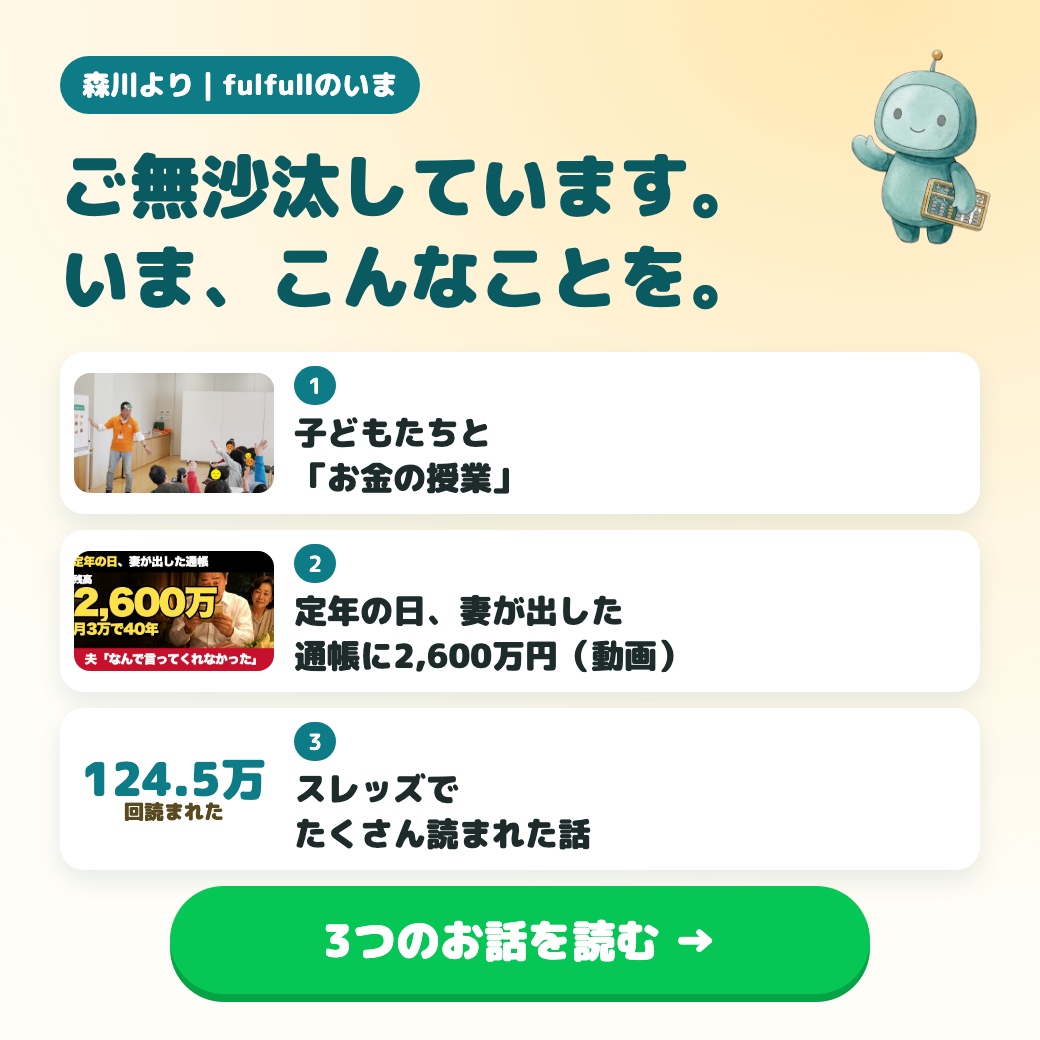
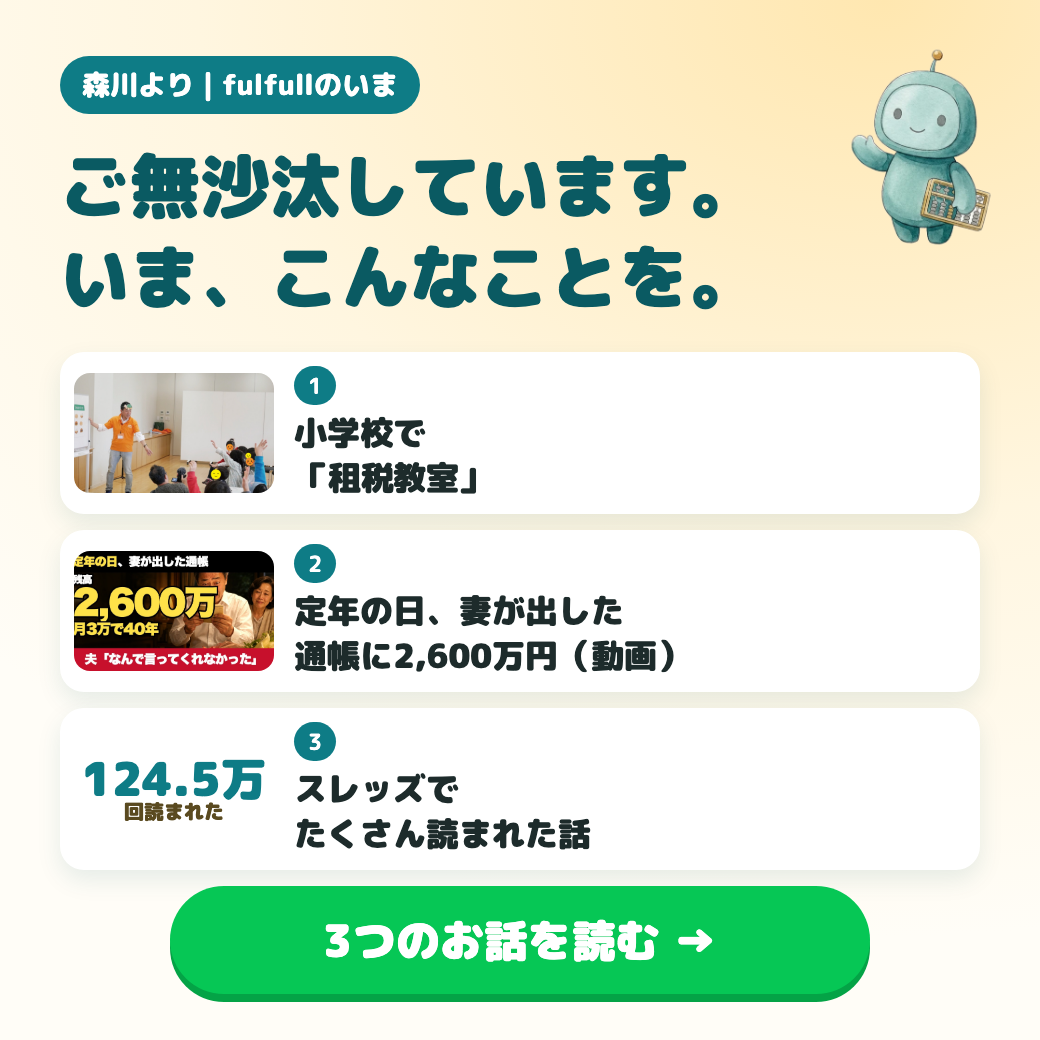
m1: 租税教室に差し替え

Changed region(s): [[0.2769, 0.4, 0.4923, 0.4923]]

diff --git a/w/m1/index.html b/w/m1/index.html
@@ -1,7 +1,7 @@
 <!doctype html>
 <html lang="ja"><head><meta charset="utf-8"><meta name="viewport" content="width=device-width,initial-scale=1">
 <meta name="robots" content="noindex,nofollow,noarchive"><meta name="color-scheme" content="light">
-<meta name="description" content="fulfullのいま｜子どもたちとのお金の授業、定年の日の通帳の話（動画）、スレッズで124.5万人が読んだ話"><meta property="og:title" content="ご無沙汰しています。いま、こんなことをしています。"><meta property="og:description" content="fulfullのいま｜子どもたちとのお金の授業、定年の日の通帳の話（動画）、スレッズで124.5万人が読んだ話">
+<meta name="description" content="fulfullのいま｜小学校の租税教室、定年の日の通帳の話（動画）、スレッズで124.5万人が読んだ話"><meta property="og:title" content="ご無沙汰しています。いま、こんなことをしています。"><meta property="og:description" content="fulfullのいま｜小学校の租税教室、定年の日の通帳の話（動画）、スレッズで124.5万人が読んだ話">
 <meta property="og:url" content="https://mm738966m-boop.github.io/asa/w/m1/"><meta property="og:image" content="https://mm738966m-boop.github.io/asa/w/m1/og.png"><meta property="og:image:width" content="1200"><meta property="og:image:height" content="630">
 <meta name="twitter:card" content="summary_large_image"><meta property="og:type" content="website">
 <link href="https://fonts.googleapis.com/css2?family=M+PLUS+Rounded+1c:wght@500;700;800;900&display=swap" rel="stylesheet">
@@ -59,20 +59,19 @@ p{font-size:17px;line-height:1.9;margin:0 0 12px}
 </header>
 
 <nav class="toc">
-<a href="#c"><b>1</b>子どもたちと「お金の授業」</a>
+<a href="#c"><b>1</b>小学校の「租税教室」</a>
 <a href="#a"><b>2</b>定年の日、妻が出した通帳（動画）</a>
 <a href="#b"><b>3</b>124.5万人が読んだ、あの話</a>
 </nav>
 
 <section class="sec" id="c">
-<span class="k">1　お金の授業</span>
-<h2>「お金ってなに？」を、<br>子どもたちと一緒に。</h2>
-<img class="ph" src="img/kyoshitsu2.jpg" alt="子ども向けのお金の教室で話す森川" loading="lazy">
-<p class="cap">親子のお金の教室で。お子さんの顔は隠しています。</p>
-<p>僕は、大人向けの相談だけでなく、子どもたちにお金の話をする授業もしています。<br>パンの絵を使ったお店屋さんごっこで、「お金で何かを手に入れる」ことを、体を動かしながら覚えてもらいます。</p>
-<div class="two"><img src="img/kyoshitsu1.jpg" alt="お金の教室の会場" loading="lazy"><img src="img/kyoshitsu2.jpg" alt="手を挙げる子どもたち" loading="lazy" style="object-position:80% 70%"></div>
+<span class="k">1　租税教室</span>
+<h2>小学校で、<br>「税金ってなに？」の授業。</h2>
+<p>僕は地元の法人会の一員として、税務署からのご依頼で、小学校を回って「租税教室」をしています。<br>道路や学校、救急車。身の回りのどこに税金が使われているのかを、子どもたちと一緒に考える授業です。</p>
+<img class="ph" src="img/kyoshitsu2.jpg" alt="子どもたちに話をする森川" loading="lazy">
+<p class="cap">子どもたちに話をしているときの様子です。お子さんの顔は隠しています。</p>
 <ul class="pts">
-<li><b>大人向けにも</b>、同じ考え方を「今更聞けないお金の授業」全10回として、中学生にも分かる言葉で書いています。</li>
+<li><b>大人向けにも</b>、「そもそも、お金ってなに？」から始める「今更聞けないお金の授業」全10回を、中学生にも分かる言葉で書いています。</li>
 <li><b>これまでに</b>、大手証券会社・ハウスメーカー・小学校や中学校などで、延べ2,000人以上にお金の話を届けてきました。</li>
 </ul>
 <a class="card" href="https://mm738966m-boop.github.io/fulfull-links/go/?d=20261128&amp;s=m-w1-lesson&amp;to=https%3A%2F%2Ffulfull.jp%2F2026%2F08%2F11%2Fmoney-lessons%2F"><div class="in"><div class="tt">今更聞けないお金の授業　全10回まとめ</div><div class="ds">「そもそも、お金ってなに？」から。お子さんと一緒に読める言葉で書いています。</div><span class="go">読んでみる →</span></div></a>
@@ -103,7 +102,7 @@ p{font-size:17px;line-height:1.9;margin:0 0 12px}
 </div>
 </section>
 
-<div class="me"><span class="av">森</span><p>お金の話は、数字より先に「家族の気持ち」が出てくることが多いです。<br>だから僕は、子どもにも大人にも、まず気持ちのところから話すようにしています。</p></div>
+<div class="me"><span class="av">森</span><p>お金の話は、数字より先に「家族の気持ち」が出てくることが多いです。<br>だから僕は、小学校の授業でも大人の相談でも、まず気持ちのところから話すようにしています。</p></div>
 
 <p class="soft">お金の勉強会（オンライン・約1時間）も続けています。<br><a href="https://mm738966m-boop.github.io/fulfull-links/go/?d=20261128&amp;s=m-w1-lp&amp;to=https%3A%2F%2Futage-system.com%2Fp%2FxBWncXOH1VaH%3Fref%3Dline_sogo_w1">日程を見てみる</a></p>
 <p class="foot">fulfull株式会社　森川 満章<br>ときどき、fulfullのいまをお届けします。</p>
